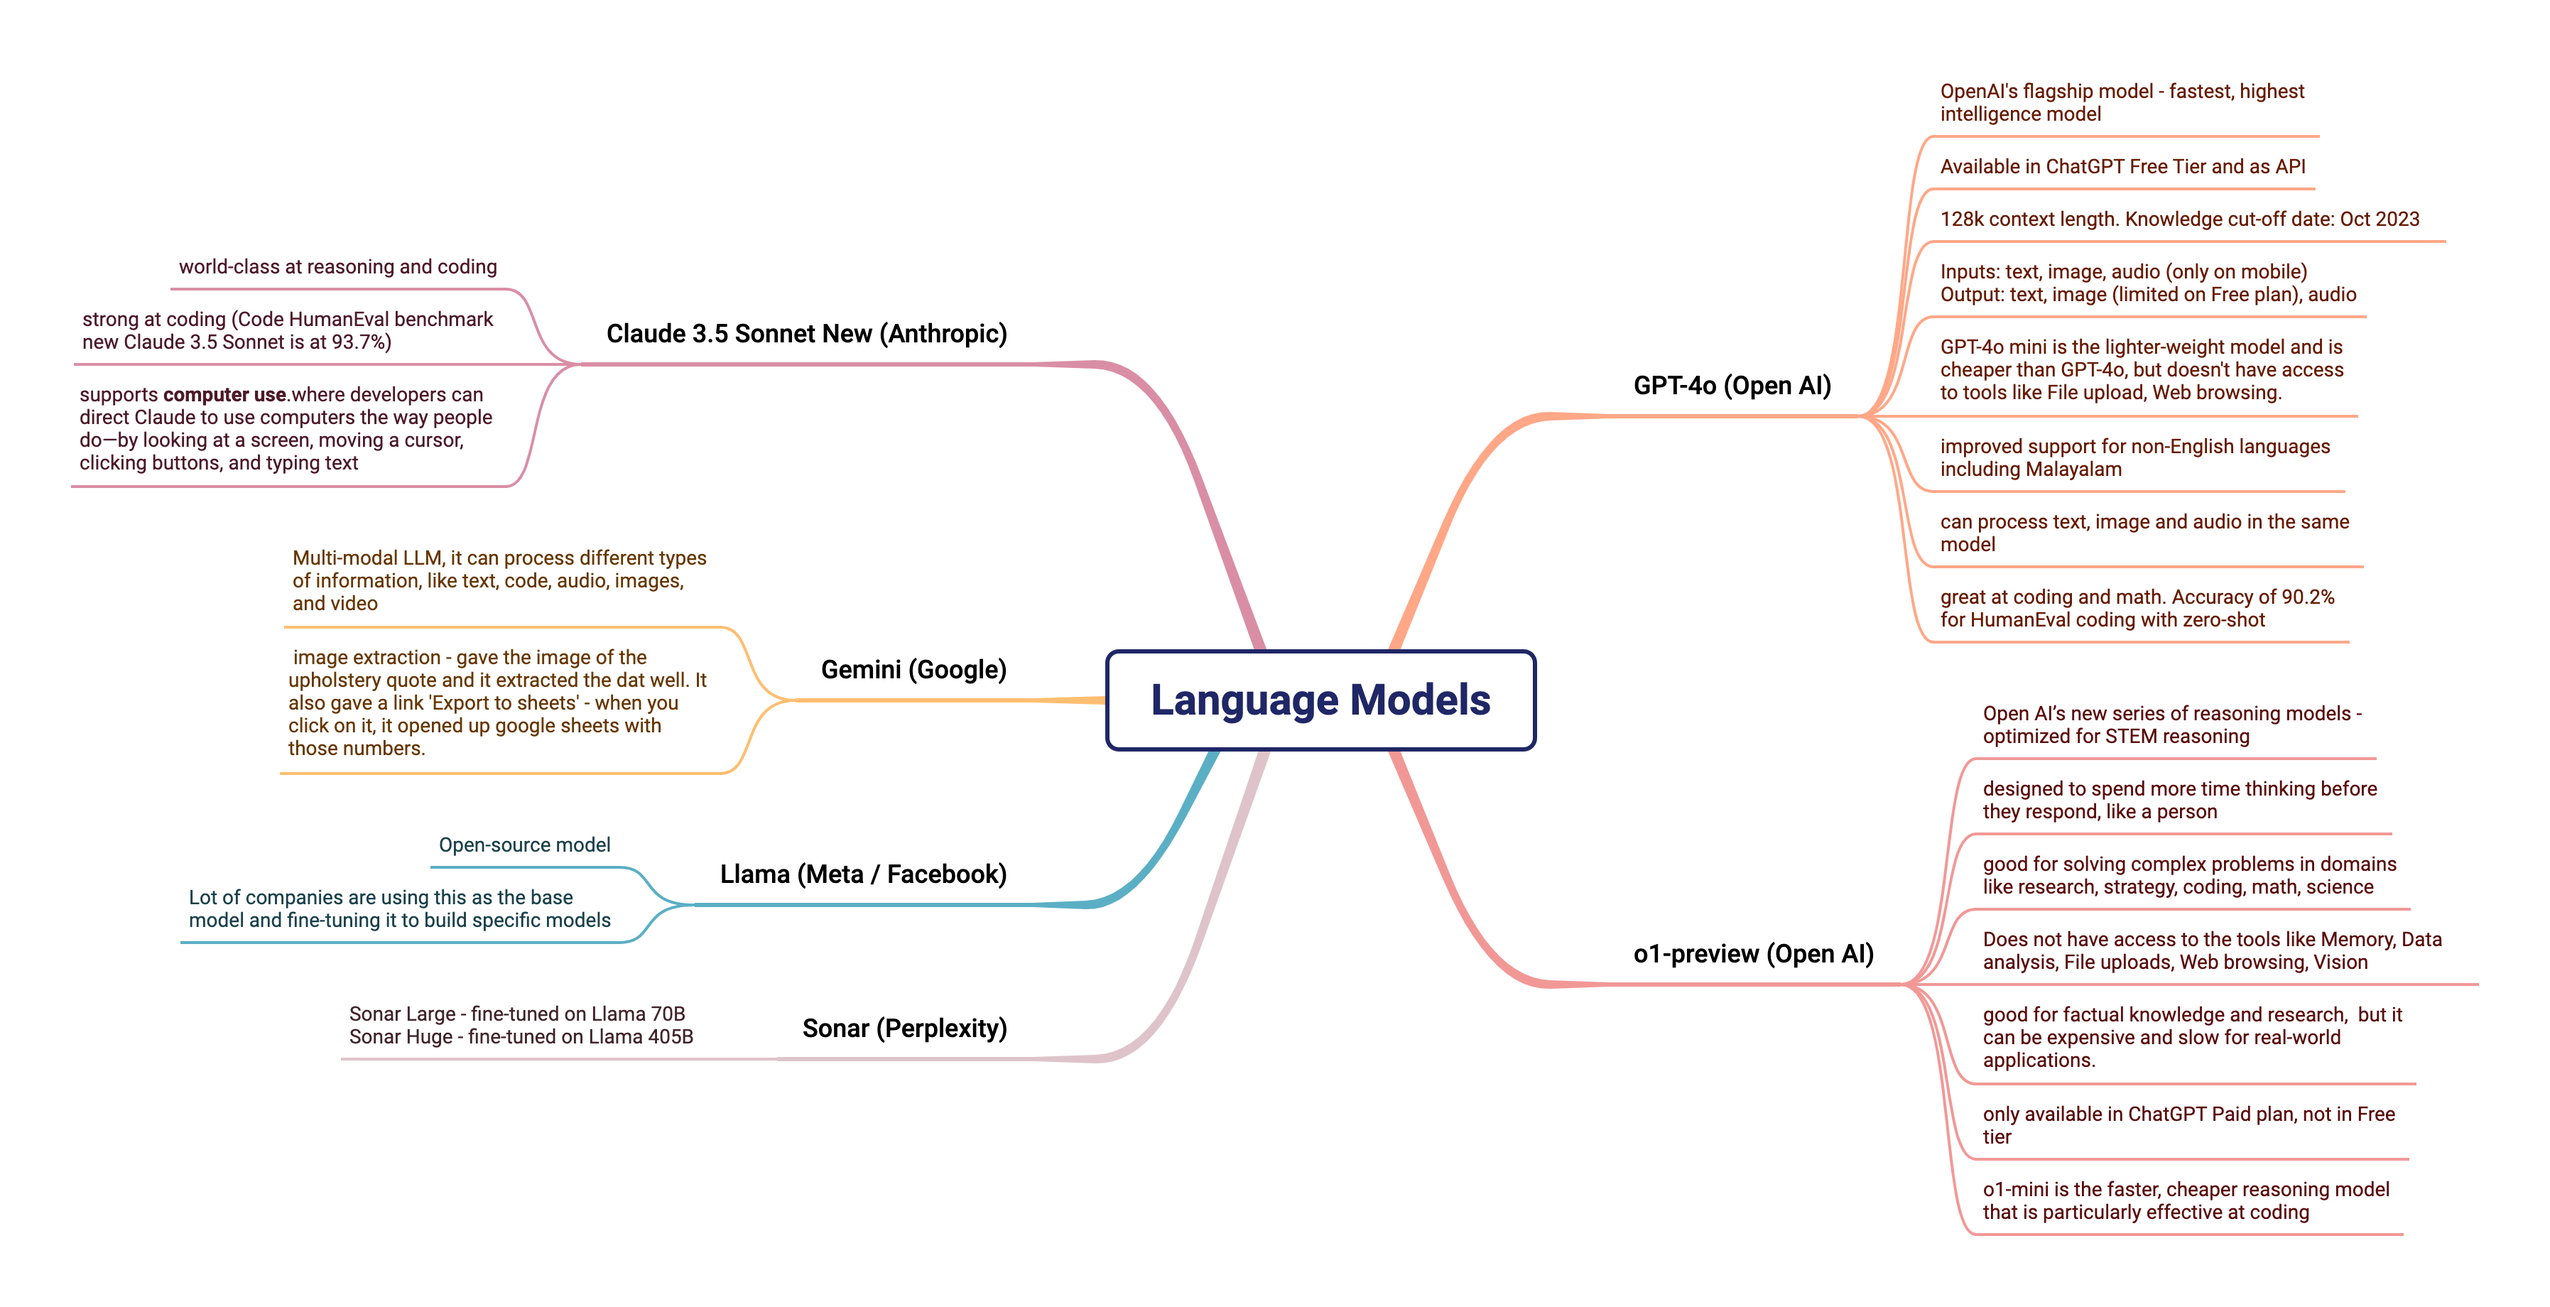
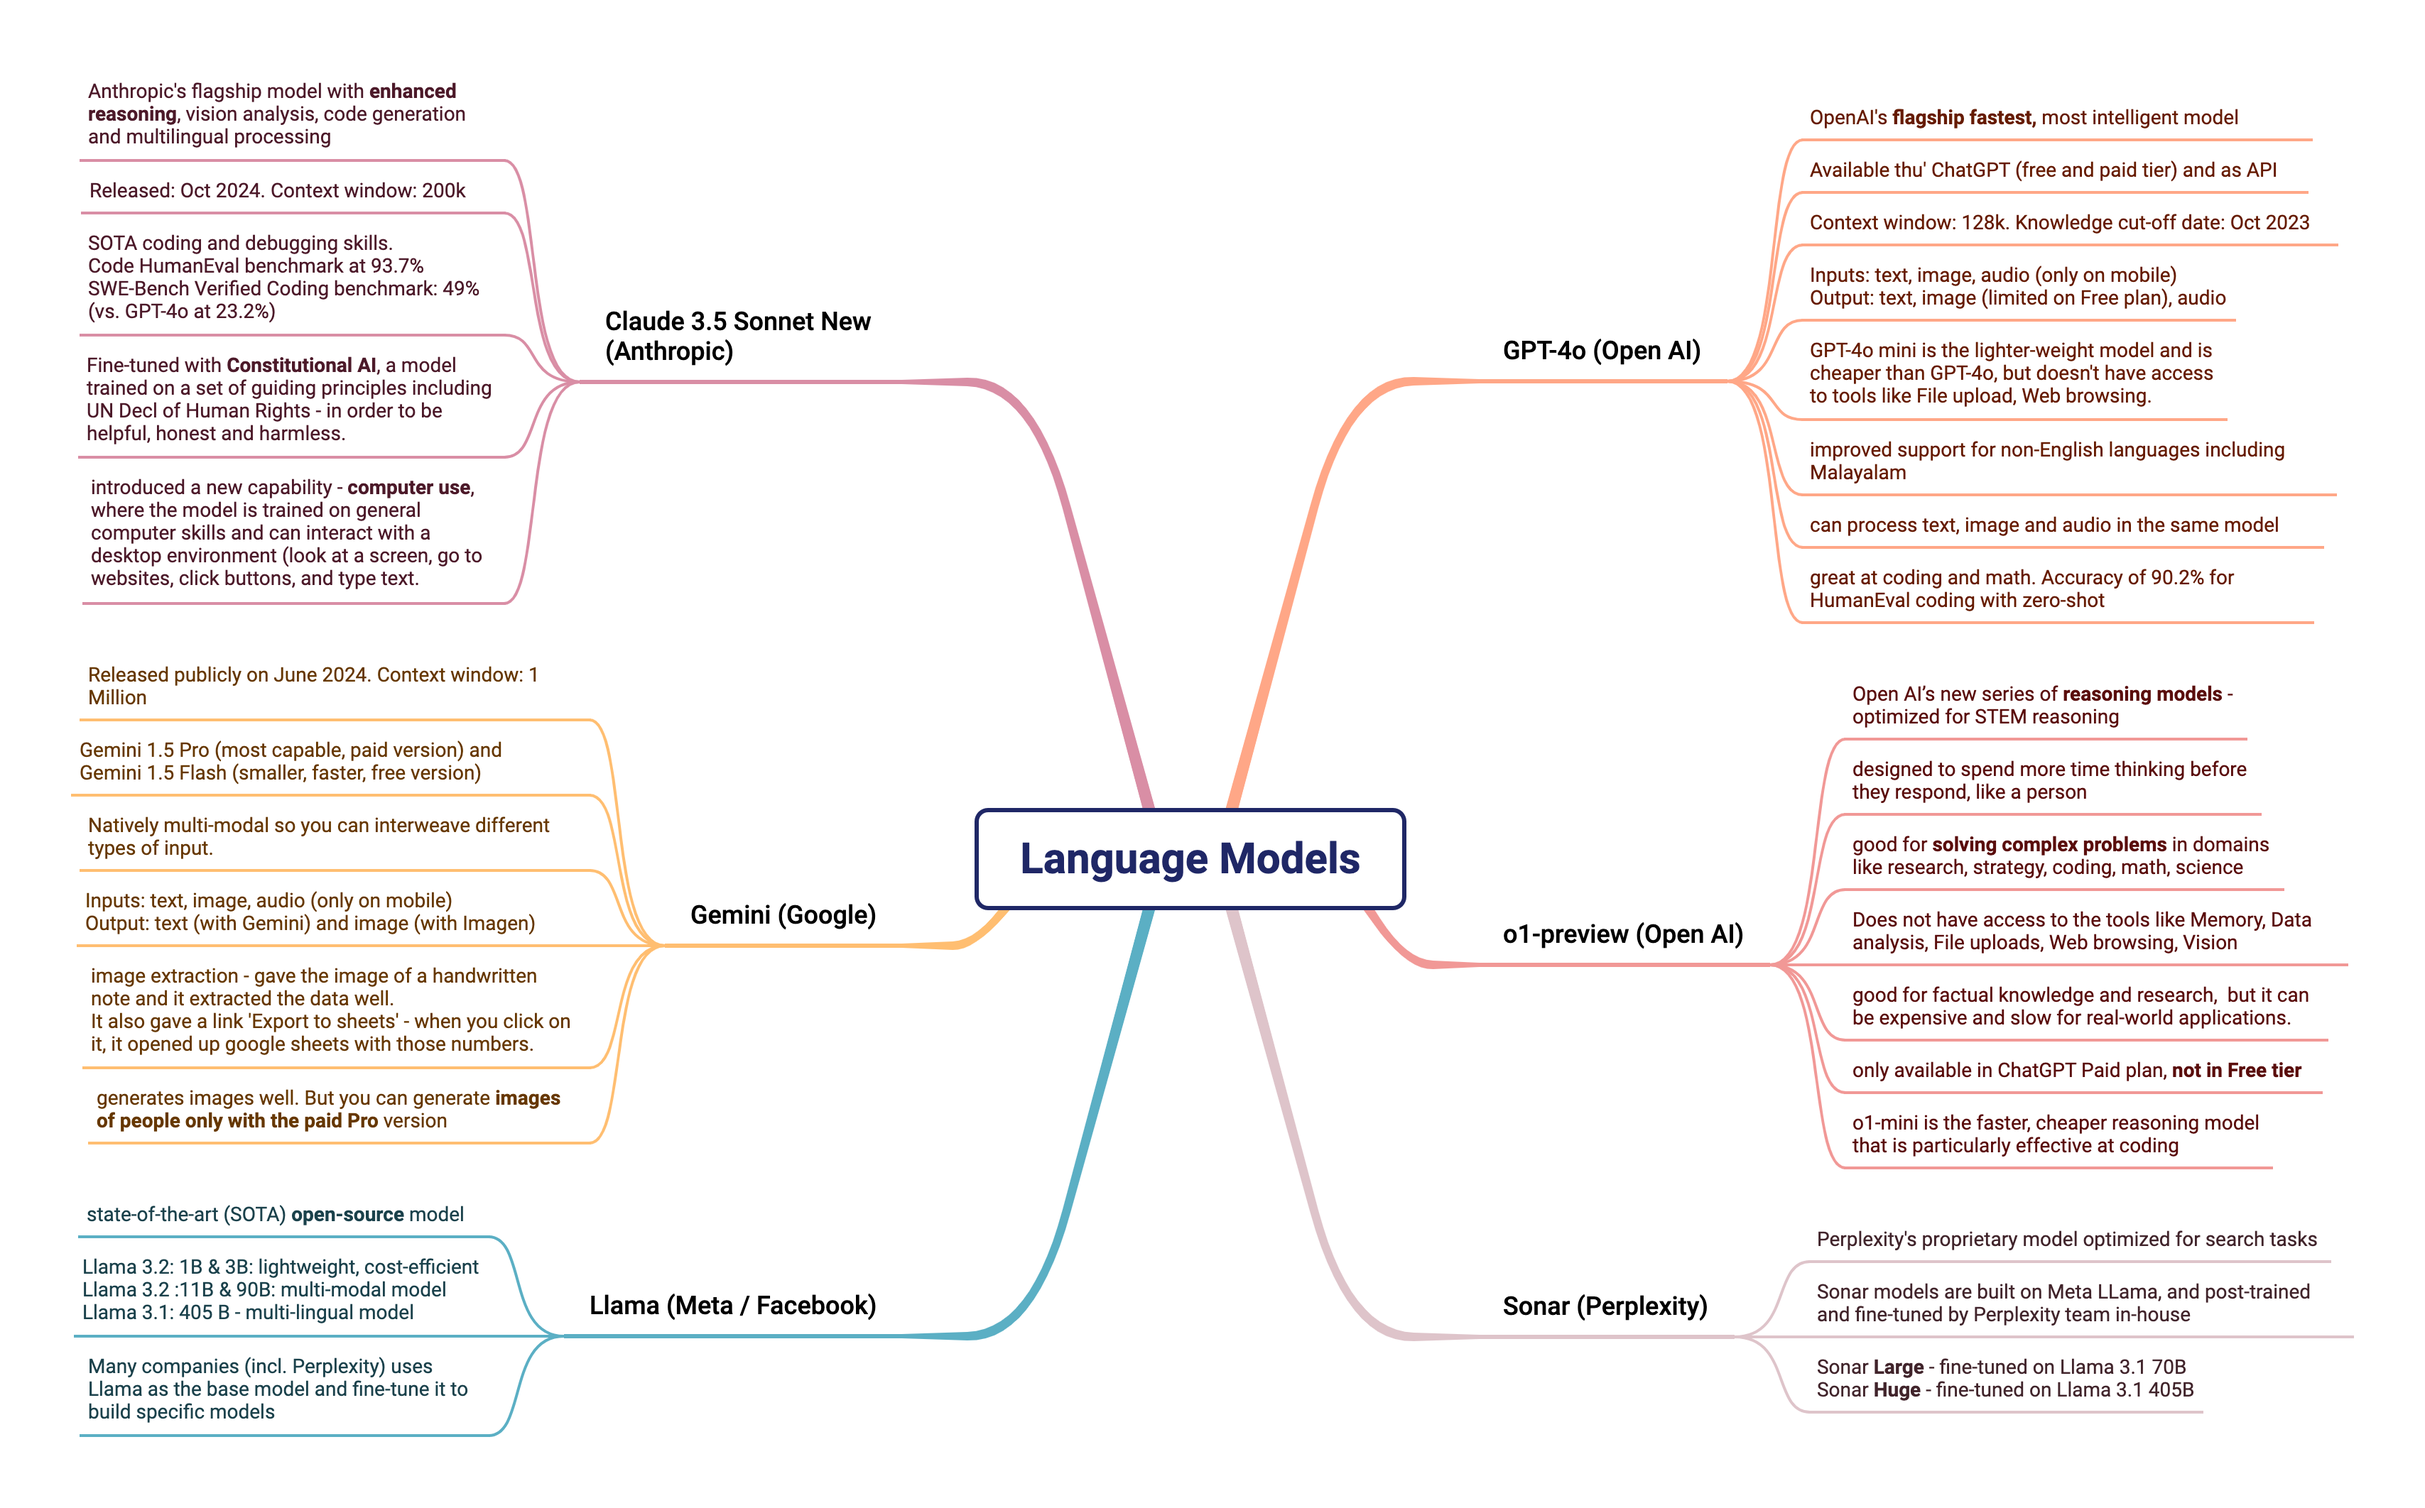
Improved the post about comparing LLMs - added more information, updated the mind maps

Changed region(s): [[0.031, 0.031, 0.9625, 0.9603], [0.5278, 0.2788, 0.5899, 0.4337]]

diff --git a/post/compare-ai-tools-llms/index.html b/post/compare-ai-tools-llms/index.html
@@ -294,7 +294,7 @@
 
 <figure>
     <a href="https://annjose.com/post/compare-ai-tools-llms/compare-language-models.png" target="_blank">
-        <img srcset="https://annjose.com/post/compare-ai-tools-llms/compare-language-models_hu71121490563cc2e546d1aced56d0ac28_759625_480x0_resize_box_3.png 480w, https://annjose.com/post/compare-ai-tools-llms/compare-language-models_hu71121490563cc2e546d1aced56d0ac28_759625_768x0_resize_box_3.png 768w, https://annjose.com/post/compare-ai-tools-llms/compare-language-models_hu71121490563cc2e546d1aced56d0ac28_759625_1024x0_resize_box_3.png 1024w"
+        <img srcset="https://annjose.com/post/compare-ai-tools-llms/compare-language-models_hucd25616c0277082cb7237ee946c47508_1056416_480x0_resize_box_3.png 480w, https://annjose.com/post/compare-ai-tools-llms/compare-language-models_hucd25616c0277082cb7237ee946c47508_1056416_768x0_resize_box_3.png 768w, https://annjose.com/post/compare-ai-tools-llms/compare-language-models_hucd25616c0277082cb7237ee946c47508_1056416_1024x0_resize_box_3.png 1024w"
             sizes="(max-width: 480px) 480px, (max-width: 768px) 768px, 1024px" src="https://annjose.com/post/compare-ai-tools-llms/compare-language-models.png"
             alt="Language Models"  loading="lazy">
     </a>
@@ -310,7 +310,7 @@
 
 <figure>
     <a href="https://annjose.com/post/compare-ai-tools-llms/compare-ai-assistants.png" target="_blank">
-        <img srcset="https://annjose.com/post/compare-ai-tools-llms/compare-ai-assistants_hu4e6913bbadf13da4293a65bb17714a53_391334_480x0_resize_box_3.png 480w, https://annjose.com/post/compare-ai-tools-llms/compare-ai-assistants_hu4e6913bbadf13da4293a65bb17714a53_391334_768x0_resize_box_3.png 768w, https://annjose.com/post/compare-ai-tools-llms/compare-ai-assistants_hu4e6913bbadf13da4293a65bb17714a53_391334_1024x0_resize_box_3.png 1024w"
+        <img srcset="https://annjose.com/post/compare-ai-tools-llms/compare-ai-assistants_hu935f2da0d8803e26fb17b5d5a160a17a_585941_480x0_resize_box_3.png 480w, https://annjose.com/post/compare-ai-tools-llms/compare-ai-assistants_hu935f2da0d8803e26fb17b5d5a160a17a_585941_768x0_resize_box_3.png 768w, https://annjose.com/post/compare-ai-tools-llms/compare-ai-assistants_hu935f2da0d8803e26fb17b5d5a160a17a_585941_1024x0_resize_box_3.png 1024w"
             sizes="(max-width: 480px) 480px, (max-width: 768px) 768px, 1024px" src="https://annjose.com/post/compare-ai-tools-llms/compare-ai-assistants.png"
             alt="AI Assistants"  loading="lazy">
     </a>
@@ -326,7 +326,7 @@
 
 <figure>
     <a href="https://annjose.com/post/compare-ai-tools-llms/compare-image-audio-video-models.png" target="_blank">
-        <img srcset="https://annjose.com/post/compare-ai-tools-llms/compare-image-audio-video-models_hu4783c426f483ff205bece9d2904fce63_275721_480x0_resize_box_3.png 480w, https://annjose.com/post/compare-ai-tools-llms/compare-image-audio-video-models_hu4783c426f483ff205bece9d2904fce63_275721_768x0_resize_box_3.png 768w, https://annjose.com/post/compare-ai-tools-llms/compare-image-audio-video-models_hu4783c426f483ff205bece9d2904fce63_275721_1024x0_resize_box_3.png 1024w"
+        <img srcset="https://annjose.com/post/compare-ai-tools-llms/compare-image-audio-video-models_huead15a5ee56a2e0b259bfc9a57c6a16a_534047_480x0_resize_box_3.png 480w, https://annjose.com/post/compare-ai-tools-llms/compare-image-audio-video-models_huead15a5ee56a2e0b259bfc9a57c6a16a_534047_768x0_resize_box_3.png 768w, https://annjose.com/post/compare-ai-tools-llms/compare-image-audio-video-models_huead15a5ee56a2e0b259bfc9a57c6a16a_534047_1024x0_resize_box_3.png 1024w"
             sizes="(max-width: 480px) 480px, (max-width: 768px) 768px, 1024px" src="https://annjose.com/post/compare-ai-tools-llms/compare-image-audio-video-models.png"
             alt="Image, Audio, Video Models"  loading="lazy">
     </a>
@@ -334,7 +334,7 @@
 </figure>
 </p>
 <h2 id="best-tools-for-the-common-tasks">Best tools for the common tasks</h2>
-<p>The table below shows the common tasks that we try to do using the AI tools, suggestions on which tools are best for those tasks and my individual preference (the tool that I use personally).</p>
+<p>The table below shows the common tasks that can be done using the AI tools, specifically available through an AI assisant. I give suggestions on which tools are best for each task and my own preference of the tool that I use personally.</p>
 
 
 
@@ -353,33 +353,44 @@
     <tr>
       
       
-        <td>Explore world knowledge with latest up-to-date information     </td>
+        <td>Knowledge discovery, searching for any up-to-date information   </td>
       
         <td> ChatGPT, Perplexity AI , Microsoft Copilot  </td>
       
-        <td>  Perplexity AI in regular mode because it gives references and citations to verify the answer</td>
+        <td>  Perplexity AI because it gives citations to verify the response</td>
       
     </tr>
   
     <tr>
       
       
-        <td>Creative writing - write essays, formal letters, poems </td>
-      
-        <td> ChatGPT, Claude Sonnet 3.5 New </td>
-      
-        <td> Claude Sonnet 3.5 New</td>
-      
-    </tr>
-  
-    <tr>
-      
-      
-        <td>Ask questions about any topic - health, medicine, nations, technology</td>
+        <td>Finding infomation and learning any topic - health, medicine, technology</td>
       
         <td> Perplexity AI , Microsoft Copilot  </td>
       
-        <td>  Perplexity AI because it gives references and citations and you can publish your pages</td>
+        <td>  Perplexity AI because it gives citations., and you can publish your pages for others</td>
+      
+    </tr>
+  
+    <tr>
+      
+      
+        <td>Creative writing - essays, formal letters, poems, video script </td>
+      
+        <td> ChatGPT, Claude Sonnet 3.5 New </td>
+      
+        <td> Claude Sonnet 3.5 New (it is more coherent and generates language within context)</td>
+      
+    </tr>
+  
+    <tr>
+      
+      
+        <td>Analyzing academic papers and research articles </td>
+      
+        <td>Claude Sonnet 3.5 New, ChatGPT </td>
+      
+        <td>Claude Sonnet 3.5 New </td>
       
     </tr>
   
@@ -390,7 +401,7 @@
       
         <td> Claude 3.5 Sonnet New, Open AI o1-preview </td>
       
-        <td>  Both models are equally good, so I will use one model to judge the results of the other.</td>
+        <td>  Both models are equally good. I would use the output of one model to judge the results of the other.</td>
       
     </tr>
   
@@ -401,7 +412,7 @@
       
         <td> ChatGPT, Perplexity AI, Google Gemini  </td>
       
-        <td> Google Gemini (gives the option to create a google sheets also)</td>
+        <td> Google Gemini (gives the option to create a google sheets from the data)</td>
       
     </tr>
   
@@ -410,9 +421,9 @@
       
         <td>Image generation  </td>
       
-        <td> Open AI DALL-E, Midjourney, Freepik with AI  </td>
+        <td> DALL-E, Midjourney, FLUX  </td>
       
-        <td> DALL-E for artistic images, Midjourney for photo realistic </td>
+        <td> DALL-E for artistic images, FLUX through Freepik for random images, Midjourney for photo realistic images  </td>
       
     </tr>
   
@@ -445,7 +456,7 @@
       
         <td> GPT-4o, Claude 3.5 Sonnet New  </td>
       
-        <td> Claude 3.5 Sonnet New </td>
+        <td> Claude 3.5 Sonnet New mostly</td>
       
     </tr>
   
